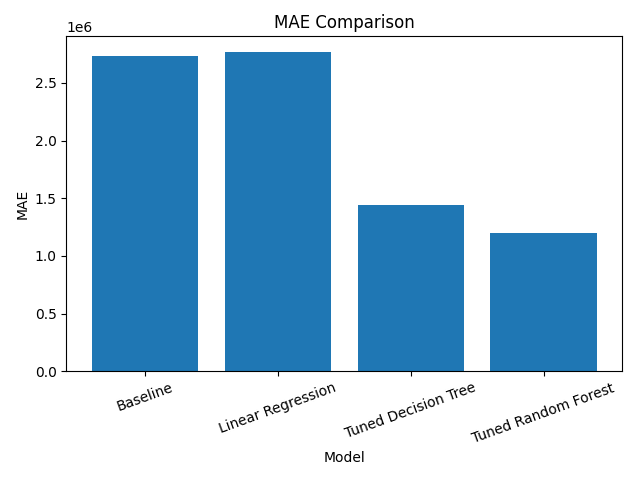
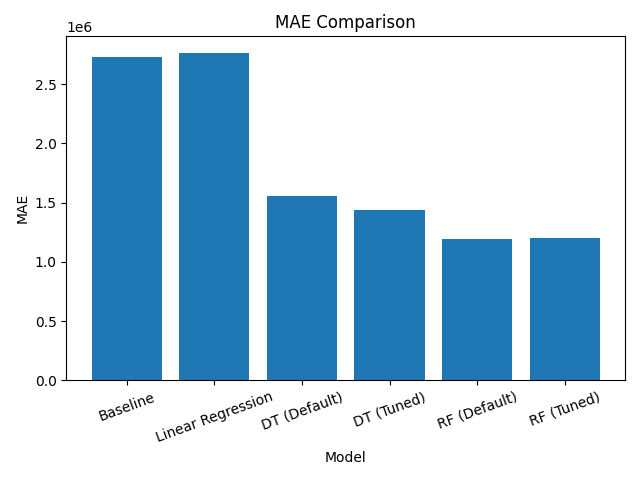
final

diff --git a/models.py b/models.py
@@ -21,7 +21,7 @@ X_train, X_test, y_train, y_test = train_test_split(
     X, y, test_size=0.2, random_state=42
 )
 
-# Baseline MOdel
+# Baseline Model
 baseline_prediction = y_train.mean()
 baseline_preds = np.full(len(y_test), baseline_prediction)
 
@@ -37,7 +37,7 @@ print(f"RMSE: {baseline_rmse:.2f}")
 print(f"MAE: {baseline_mae:.2f}")
 print(f"R^2: {baseline_r2:.4f}")
 
-# Linear Regression
+# Linear Regression Model
 
 # Scaling Features
 scaler = StandardScaler()
@@ -63,8 +63,39 @@ print(f"RMSE: {lr_rmse:.2f}")
 print(f"MAE: {lr_mae:.2f}")
 print(f"R^2: {lr_r2:.4f}")
 
-# Decision Tree with Hyperparameter Tuning
+# Default Decision Tree
+dt_default = DecisionTreeRegressor(random_state=42)
+dt_default.fit(X_train, y_train)
 
+dt_default_preds = dt_default.predict(X_test)
+
+dt_default_mse = mean_squared_error(y_test, dt_default_preds)
+dt_default_rmse = np.sqrt(dt_default_mse)
+dt_default_mae = mean_absolute_error(y_test, dt_default_preds)
+dt_default_r2 = r2_score(y_test, dt_default_preds)
+
+print("\nDefault Decision Tree Results")
+print(f"RMSE: {dt_default_rmse:.2f}")
+print(f"MAE: {dt_default_mae:.2f}")
+print(f"R^2: {dt_default_r2:.4f}")
+
+# Default Random Forest
+rf_default = RandomForestRegressor(n_estimators=100, random_state=42)
+rf_default.fit(X_train, y_train)
+
+rf_default_preds = rf_default.predict(X_test)
+
+rf_default_mse = mean_squared_error(y_test, rf_default_preds)
+rf_default_rmse = np.sqrt(rf_default_mse)
+rf_default_mae = mean_absolute_error(y_test, rf_default_preds)
+rf_default_r2 = r2_score(y_test, rf_default_preds)
+
+print("\nDefault Random Forest Results")
+print(f"RMSE: {rf_default_rmse:.2f}")
+print(f"MAE: {rf_default_mae:.2f}")
+print(f"R^2: {rf_default_r2:.4f}")
+
+# Decision Tree with Hyperparameter Tuning
 dt_params = {
     'max_depth': [3, 5, 10, 15, None],
     'min_samples_split': [2, 5, 10],
@@ -98,8 +129,7 @@ print(f"RMSE: {dt_rmse:.2f}")
 print(f"MAE: {dt_mae:.2f}")
 print(f"R^2: {dt_r2:.4f}")
 
-# Random Forest with Hyperparameter tuning
-
+# Random Forest with Hyperparameter Tuning
 rf_params = {
     'n_estimators': [100, 200],
     'max_depth': [5, 10, 15, None],
@@ -135,24 +165,17 @@ print(f"MAE: {rf_mae:.2f}")
 print(f"R^2: {rf_r2:.4f}")
 
 # Random Forest Feature Importance
-
 importances = best_rf.feature_importances_
 feature_names = X.columns
 
-# Create DataFrame
 feature_importance_df = pd.DataFrame({
     'Feature': feature_names,
     'Importance': importances
-})
+}).sort_values(by='Importance', ascending=False)
 
-# Sort by importance
-feature_importance_df = feature_importance_df.sort_values(by='Importance', ascending=False)
-
-# Print top 10 features
 print("\nTop 10 Most Important Features (Random Forest)")
 print(feature_importance_df.head(10))
 
-# Plot Top 10 Features
 plt.figure()
 plt.barh(feature_importance_df['Feature'][:10], feature_importance_df['Importance'][:10])
 plt.xlabel("Importance")
@@ -162,13 +185,43 @@ plt.gca().invert_yaxis()
 plt.tight_layout()
 plt.savefig("feature_importance.png")
 plt.close()
+
 # Graphs
+models = [
+    'Baseline',
+    'Linear Regression',
+    'DT (Default)',
+    'DT (Tuned)',
+    'RF (Default)',
+    'RF (Tuned)'
+]
 
-models = ['Baseline', 'Linear Regression', 'Tuned Decision Tree', 'Tuned Random Forest']
+rmse_values = [
+    baseline_rmse,
+    lr_rmse,
+    dt_default_rmse,
+    dt_rmse,
+    rf_default_rmse,
+    rf_rmse
+]
 
-rmse_values = [baseline_rmse, lr_rmse, dt_rmse, rf_rmse]
-mae_values = [baseline_mae, lr_mae, dt_mae, rf_mae]
-r2_values = [baseline_r2, lr_r2, dt_r2, rf_r2]
+mae_values = [
+    baseline_mae,
+    lr_mae,
+    dt_default_mae,
+    dt_mae,
+    rf_default_mae,
+    rf_mae
+]
+
+r2_values = [
+    baseline_r2,
+    lr_r2,
+    dt_default_r2,
+    dt_r2,
+    rf_default_r2,
+    rf_r2
+]
 
 # RMSE Plot
 plt.figure()
@@ -206,11 +259,8 @@ plt.close()
 # Linear Regression Scatterplot
 plt.figure(figsize=(8, 6))
 plt.scatter(y_test, lr_preds, alpha=0.5)
-plt.plot(
-    [y_test.min(), y_test.max()],
-    [y_test.min(), y_test.max()],
-    'r--'
-)
+plt.plot([y_test.min(), y_test.max()],
+         [y_test.min(), y_test.max()], 'r--')
 plt.title("Linear Regression: Actual vs Predicted Market Value")
 plt.xlabel("Actual Market Value")
 plt.ylabel("Predicted Market Value")
@@ -221,11 +271,8 @@ plt.close()
 # Tuned Decision Tree Scatterplot
 plt.figure(figsize=(8, 6))
 plt.scatter(y_test, dt_preds, alpha=0.5)
-plt.plot(
-    [y_test.min(), y_test.max()],
-    [y_test.min(), y_test.max()],
-    'r--'
-)
+plt.plot([y_test.min(), y_test.max()],
+         [y_test.min(), y_test.max()], 'r--')
 plt.title("Tuned Decision Tree: Actual vs Predicted Market Value")
 plt.xlabel("Actual Market Value")
 plt.ylabel("Predicted Market Value")
@@ -236,11 +283,8 @@ plt.close()
 # Tuned Random Forest Scatterplot
 plt.figure(figsize=(8, 6))
 plt.scatter(y_test, rf_preds, alpha=0.5)
-plt.plot(
-    [y_test.min(), y_test.max()],
-    [y_test.min(), y_test.max()],
-    'r--'
-)
+plt.plot([y_test.min(), y_test.max()],
+         [y_test.min(), y_test.max()], 'r--')
 plt.title("Tuned Random Forest: Actual vs Predicted Market Value")
 plt.xlabel("Actual Market Value")
 plt.ylabel("Predicted Market Value")
